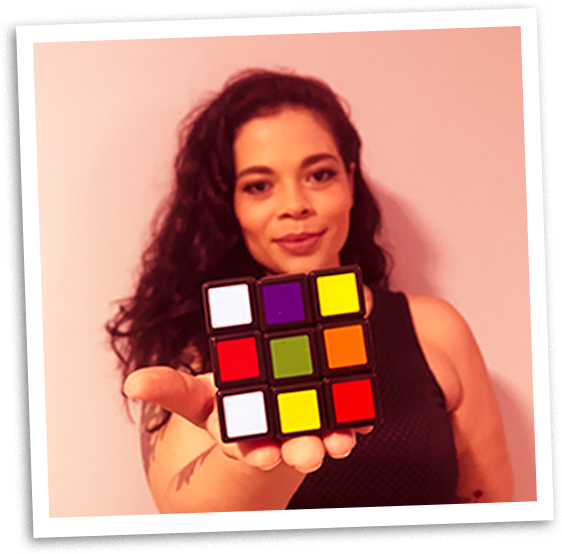
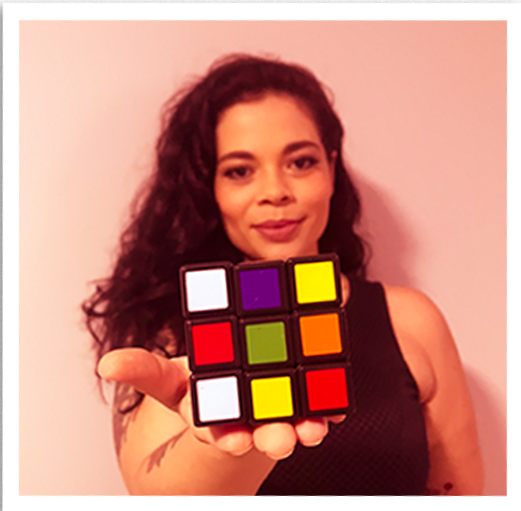
Rotacionar imagem

diff --git a/src/components/telas/cantoSuperiorEsquerdo/fotoTamis/FotoTamis.css b/src/components/telas/cantoSuperiorEsquerdo/fotoTamis/FotoTamis.css
@@ -1,8 +1,7 @@
-/* .tamisFrente{
-    width: 320px;
-    height: 314px;
+.tamisFrente{
+    width: 300px;
+    height: 296px;
     grid-area:tamis;
-    transform:translate(-35px,-240px);
     position:relative;
     transform-style: preserve-3d;
     transition-duration: 2s;
@@ -10,14 +9,16 @@
     display: flex;
     background:black;
     z-index:1000;
+    transform:rotate(-2deg);
 }
 .tamis{
     background-image: url("../../../../imagens/05//FRAME-TAMIS.png");
     background-size: cover;
-    width: 320px;
-    height: 314px;
+    width: 300px;
+    height: 296px;
     grid-area:tamis;
-    z-index: 0;
+   
+    z-index: 1;
     transition-duration: 2s;
     transform-style: preserve-3d;
     backface-visibility: hidden;
@@ -84,10 +85,11 @@
     width: 55px;
     cursor:pointer;
 }
- */
+
 .tamisFrente{
     background:black;
     width:290px;
     height:290px;
     grid-area: tamis;
+    margin-left: 30px;
 }

diff --git a/src/components/telas/cantoSuperiorEsquerdo/Tela-01.css b/src/components/telas/cantoSuperiorEsquerdo/Tela-01.css
@@ -85,7 +85,7 @@
     text-transform: uppercase;
     letter-spacing: 2px;
     display: flex;
-    align-self: flex-end;
+    align-self: center;
 }
 
 .Texto > h1{

diff --git a/op.js b/op.js
@@ -4,5 +4,5 @@ function regra3(a,b,c){
    return b*c/a
 }
 
-console.log(regra3(72,37,100))
+console.log(regra3(97,115,50))
   
